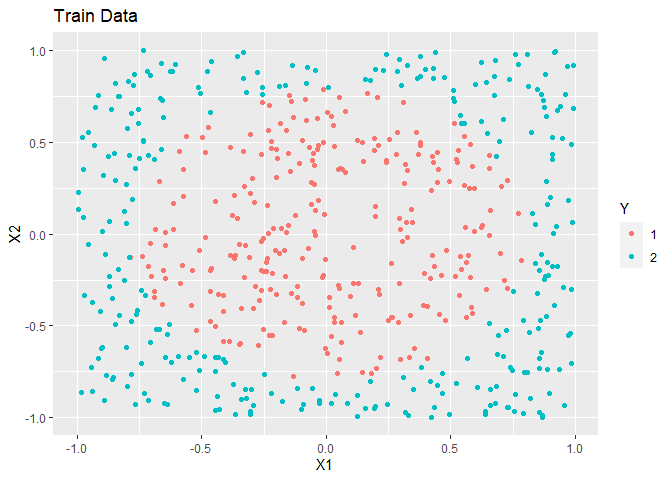
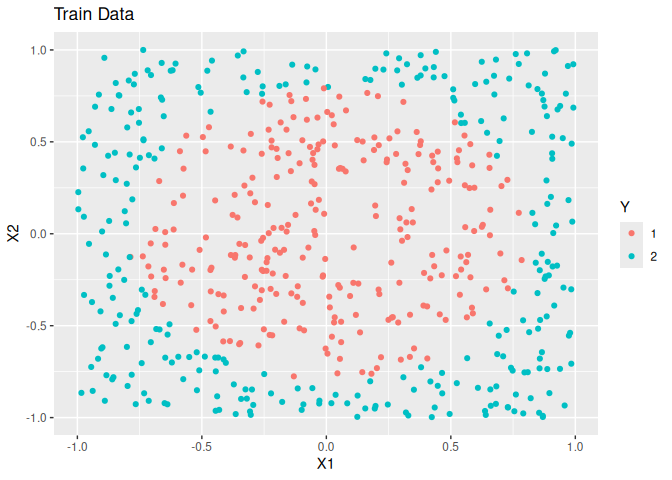
version 1.0.1

diff --git a/NEWS.md b/NEWS.md
@@ -1,3 +1,10 @@
+# tidydann v1.0.1
+  Remove bad input test due to parsnip changes.
+	Add links to github.
+	Add style action.
+	Update other github actions.
+	Change size of graph in readme.
+
 # tidydann v1.0.0
 	Better naming.
 	Breaking changes.

diff --git a/README.md b/README.md
@@ -34,6 +34,7 @@ In this example, simulated data is made. The overall trend is a circle
 inside a square.
 
 ``` r
+knitr::opts_chunk$set(echo = TRUE, fig.width = 10, fig.height = 10)
 library(parsnip)
 library(rsample)
 library(scales)
